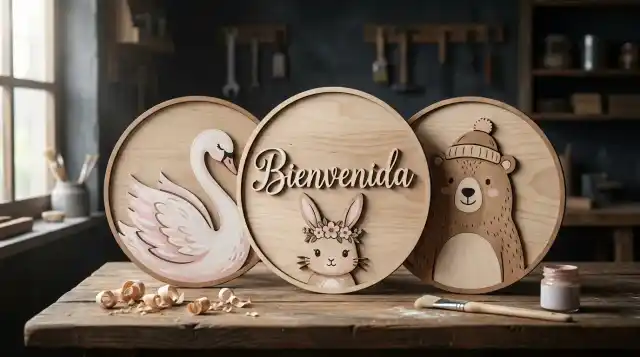
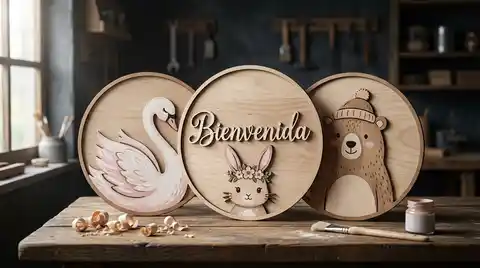
ajuste

diff --git a/src/app/layout.tsx b/src/app/layout.tsx
@@ -1,5 +1,5 @@
 import type { Metadata, Viewport } from "next";
-import { Manrope, Plus_Jakarta_Sans } from "next/font/google";
+import { Manrope } from "next/font/google";
 import { DeferredMaterialSymbols } from "@/components/ui/deferred-material-symbols";
 import { JsonLd, getSiteJsonLd } from "@/lib/seo/json-ld";
 import { shareImages } from "@/lib/seo/metadata";
@@ -13,17 +13,8 @@ import { Providers } from "./providers";
 
 const manrope = Manrope({
   subsets: ["latin"],
-  weight: ["600", "700", "800"],
+  weight: "700",
   variable: "--font-manrope",
-  display: "swap",
-  preload: true,
-  adjustFontFallback: true,
-});
-
-const plusJakartaSans = Plus_Jakarta_Sans({
-  subsets: ["latin"],
-  weight: ["400"],
-  variable: "--font-plus-jakarta-sans",
   display: "swap",
   preload: false,
   adjustFontFallback: true,
@@ -84,17 +75,8 @@ export const metadata: Metadata = {
     capable: true,
   },
   icons: {
-    icon: [
-      { url: "/favicon.ico", sizes: "48x48", type: "image/x-icon" },
-      {
-        url: "/favicon-48x48.png",
-        sizes: "48x48",
-        type: "image/png",
-      },
-      { url: "/icon", sizes: "192x192", type: "image/png" },
-    ],
+    icon: [{ url: "/favicon.ico", sizes: "48x48", type: "image/x-icon" }],
     shortcut: "/favicon.ico",
-    apple: [{ url: "/apple-icon", sizes: "180x180", type: "image/png" }],
   },
   ...(googleVerification ? { verification: { google: googleVerification } } : {}),
 };
@@ -103,17 +85,8 @@ export default function RootLayout({ children }: LayoutProps<"/">) {
   return (
     <html
       lang="es-AR"
-      className={`dark ${manrope.variable} ${plusJakartaSans.variable} h-full`}
+      className={`dark ${manrope.variable} h-full`}
     >
-      <head>
-        <link rel="preconnect" href="https://fonts.googleapis.com" />
-        <link
-          rel="preconnect"
-          href="https://fonts.gstatic.com"
-          crossOrigin="anonymous"
-        />
-        <link rel="preconnect" href="https://firebasestorage.googleapis.com" />
-      </head>
       <body className="min-h-full antialiased bg-background text-on-background">
         <DeferredMaterialSymbols />
         <JsonLd data={getSiteJsonLd()} />

diff --git a/src/components/layout/header.tsx b/src/components/layout/header.tsx
@@ -43,6 +43,7 @@ export function Header() {
         <Link
           className="flex items-center h-14"
           href="/"
+          prefetch={false}
           aria-label="Taller Yeyu, ir al inicio"
         >
           <Logo alt="" className="h-full w-auto object-contain" />
@@ -60,6 +61,7 @@ export function Header() {
                     : "font-label-caps text-label-caps text-on-surface-variant dark:text-on-surface-variant hover:text-primary transition-colors duration-300"
                 }
                 href={link.href}
+                prefetch={false}
               >
                 {link.label}
               </Link>
@@ -68,6 +70,7 @@ export function Header() {
           {showAdmin ? (
             <Link
               href="/admin/login"
+              prefetch={false}
               className="font-label-caps text-label-caps text-on-surface-variant hover:text-primary transition-colors duration-300"
             >
               ADMIN
@@ -78,6 +81,7 @@ export function Header() {
         {showAdmin ? (
           <Link
             href="/admin/login"
+            prefetch={false}
             className="absolute left-4 font-label-caps text-label-caps text-on-surface-variant hover:text-primary md:hidden"
           >
             ADMIN

diff --git a/src/app/(home)/page.tsx b/src/app/(home)/page.tsx
@@ -60,15 +60,16 @@ export default function Home() {
         <div className="absolute inset-0 z-0">
           <picture className="absolute inset-0 block h-full w-full">
             <source
-              media="(max-width: 767px)"
-              srcSet={HERO_IMAGE_MOBILE}
+              media="(min-width: 768px)"
+              srcSet={HERO_IMAGE}
               type="image/webp"
             />
             <img
               alt=""
-              src={HERO_IMAGE}
+              src={HERO_IMAGE_MOBILE}
+              width={480}
+              height={268}
               fetchPriority="high"
-              decoding="async"
               className="h-full w-full object-cover"
             />
           </picture>
@@ -97,6 +98,7 @@ export default function Home() {
           <Link
             className="touch-target inline-flex items-center justify-center px-8 bg-primary-container text-white font-label-caps text-label-caps tracking-widest hover:bg-secondary-container transition-colors duration-300 active:scale-95 uppercase"
             href="/galeria"
+            prefetch={false}
           >
             Ver Catálogo
           </Link>

diff --git a/src/components/layout/logo.tsx b/src/components/layout/logo.tsx
@@ -1,26 +1,24 @@
-import Image from "next/image";
-
 type LogoProps = {
   className?: string;
-  priority?: boolean;
   alt?: string;
+  loading?: "eager" | "lazy";
 };
 
 export function Logo({
   className,
-  priority = false,
   alt = "Taller Yeyu",
+  loading = "eager",
 }: LogoProps) {
   return (
-    <Image
+    <img
       src="/brand/logo-sm.webp"
       alt={alt}
-      width={160}
-      height={151}
+      width={240}
+      height={226}
       className={className}
-      sizes="(min-width: 768px) 208px, 144px"
-      style={{ width: "auto" }}
-      priority={priority}
+      loading={loading}
+      fetchPriority="low"
+      decoding="async"
     />
   );
 }

diff --git a/src/components/layout/footer.tsx b/src/components/layout/footer.tsx
@@ -20,7 +20,7 @@ export function Footer() {
     <footer className="w-full py-xl px-container-margin bg-surface-container-lowest dark:bg-surface-container-lowest border-t border-outline-variant pb-32 md:pb-xl">
       <div className="flex flex-col md:flex-row justify-between items-center gap-md max-w-7xl mx-auto">
         <div className="h-14">
-          <Logo alt="" className="h-full w-auto object-contain" />
+          <Logo alt="" loading="lazy" className="h-full w-auto object-contain" />
         </div>
         <nav aria-label="Redes sociales" className="flex gap-lg">
           {socialLinks.map((link) => (

diff --git a/src/app/manifest.ts b/src/app/manifest.ts
@@ -23,18 +23,8 @@ export default function manifest(): MetadataRoute.Manifest {
         type: "image/png",
       },
       {
-        src: "/icon",
+        src: "/icon-192.png",
         sizes: "192x192",
-        type: "image/png",
-      },
-      {
-        src: "/apple-icon",
-        sizes: "180x180",
-        type: "image/png",
-      },
-      {
-        src: siteConfig.logoPath,
-        sizes: "956x901",
         type: "image/png",
         purpose: "any",
       },

diff --git a/src/app/globals.css b/src/app/globals.css
@@ -103,9 +103,9 @@
   --font-headline-md: var(--font-manrope);
   --font-label-caps: var(--font-manrope);
   --font-headline-xl: var(--font-manrope);
-  --font-body-md: var(--font-plus-jakarta-sans);
-  --font-body-lg: var(--font-plus-jakarta-sans);
-  --font-sans: var(--font-plus-jakarta-sans);
+  --font-body-md: ui-sans-serif, system-ui, sans-serif;
+  --font-body-lg: ui-sans-serif, system-ui, sans-serif;
+  --font-sans: ui-sans-serif, system-ui, sans-serif;
 }
 
 html {

diff --git a/src/components/layout/bottom-nav.tsx b/src/components/layout/bottom-nav.tsx
@@ -28,6 +28,7 @@ export function BottomNav() {
                 : "flex flex-col items-center justify-center border-t-2 border-transparent pt-2 text-on-surface-variant hover:bg-surface-container-high/50 active:scale-90"
             }
             href={item.href}
+            prefetch={false}
             style={{ width: "20%" }}
           >
             <MaterialIcon name={item.icon} filled={active} className="mb-1" />
